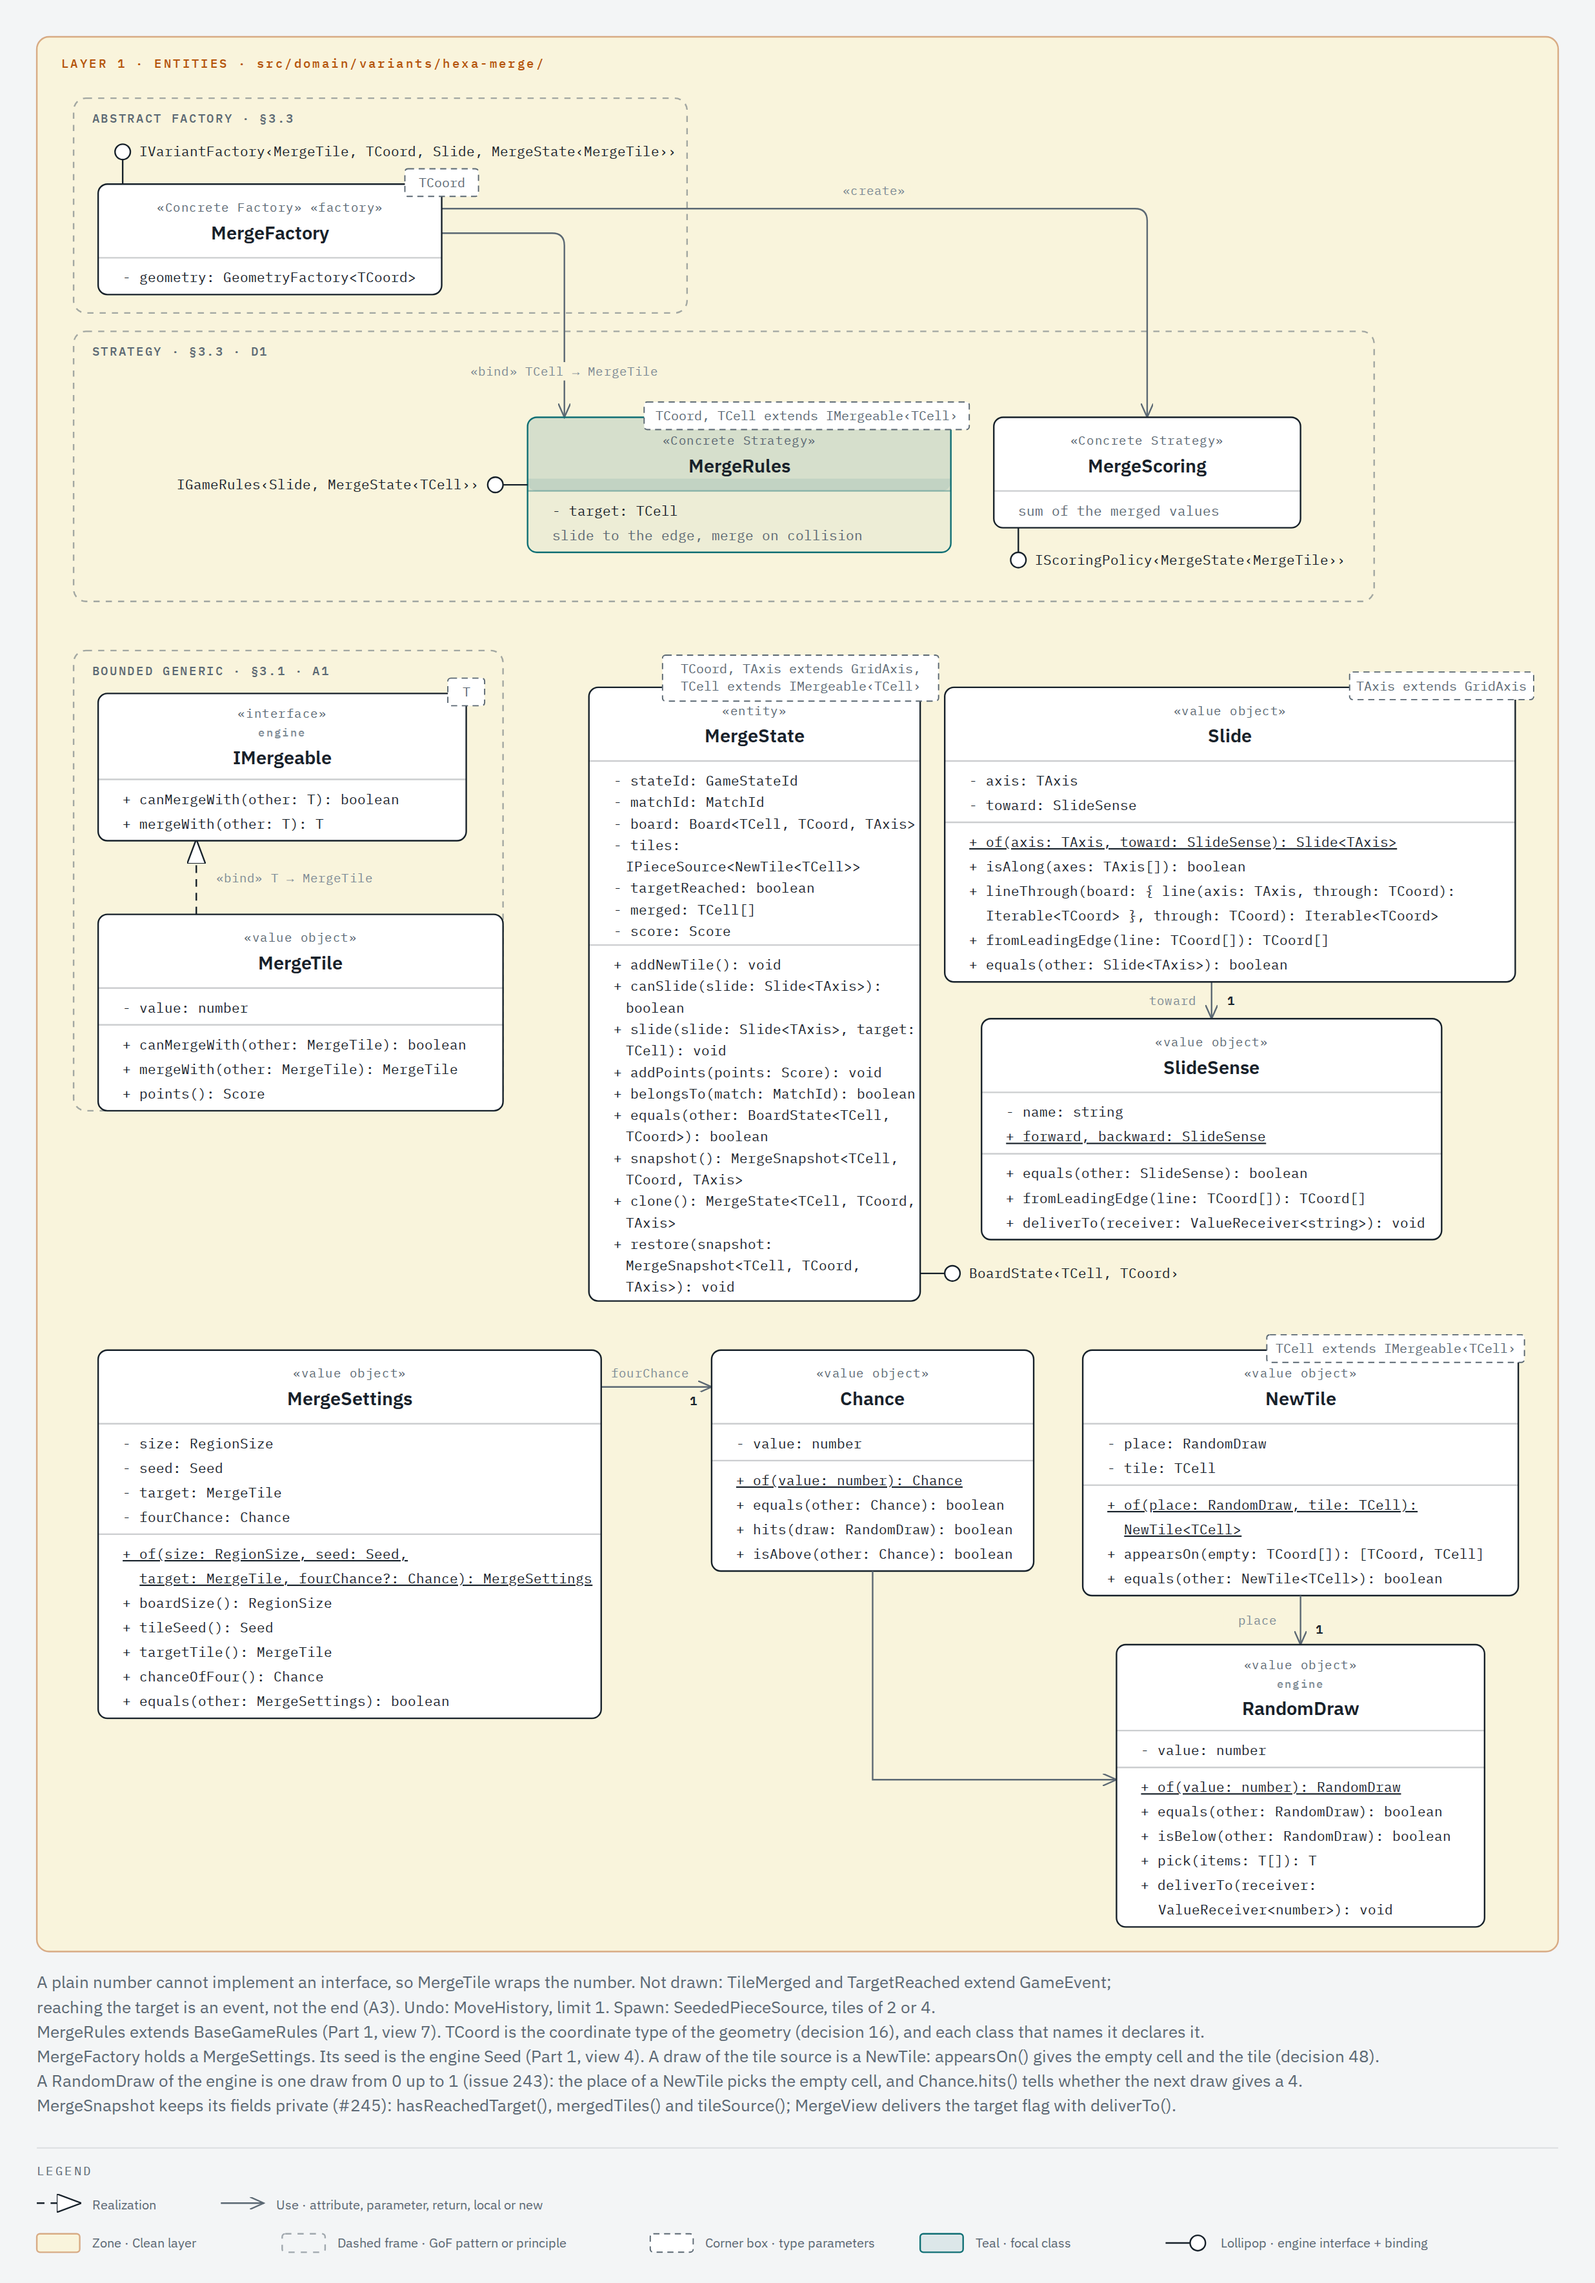
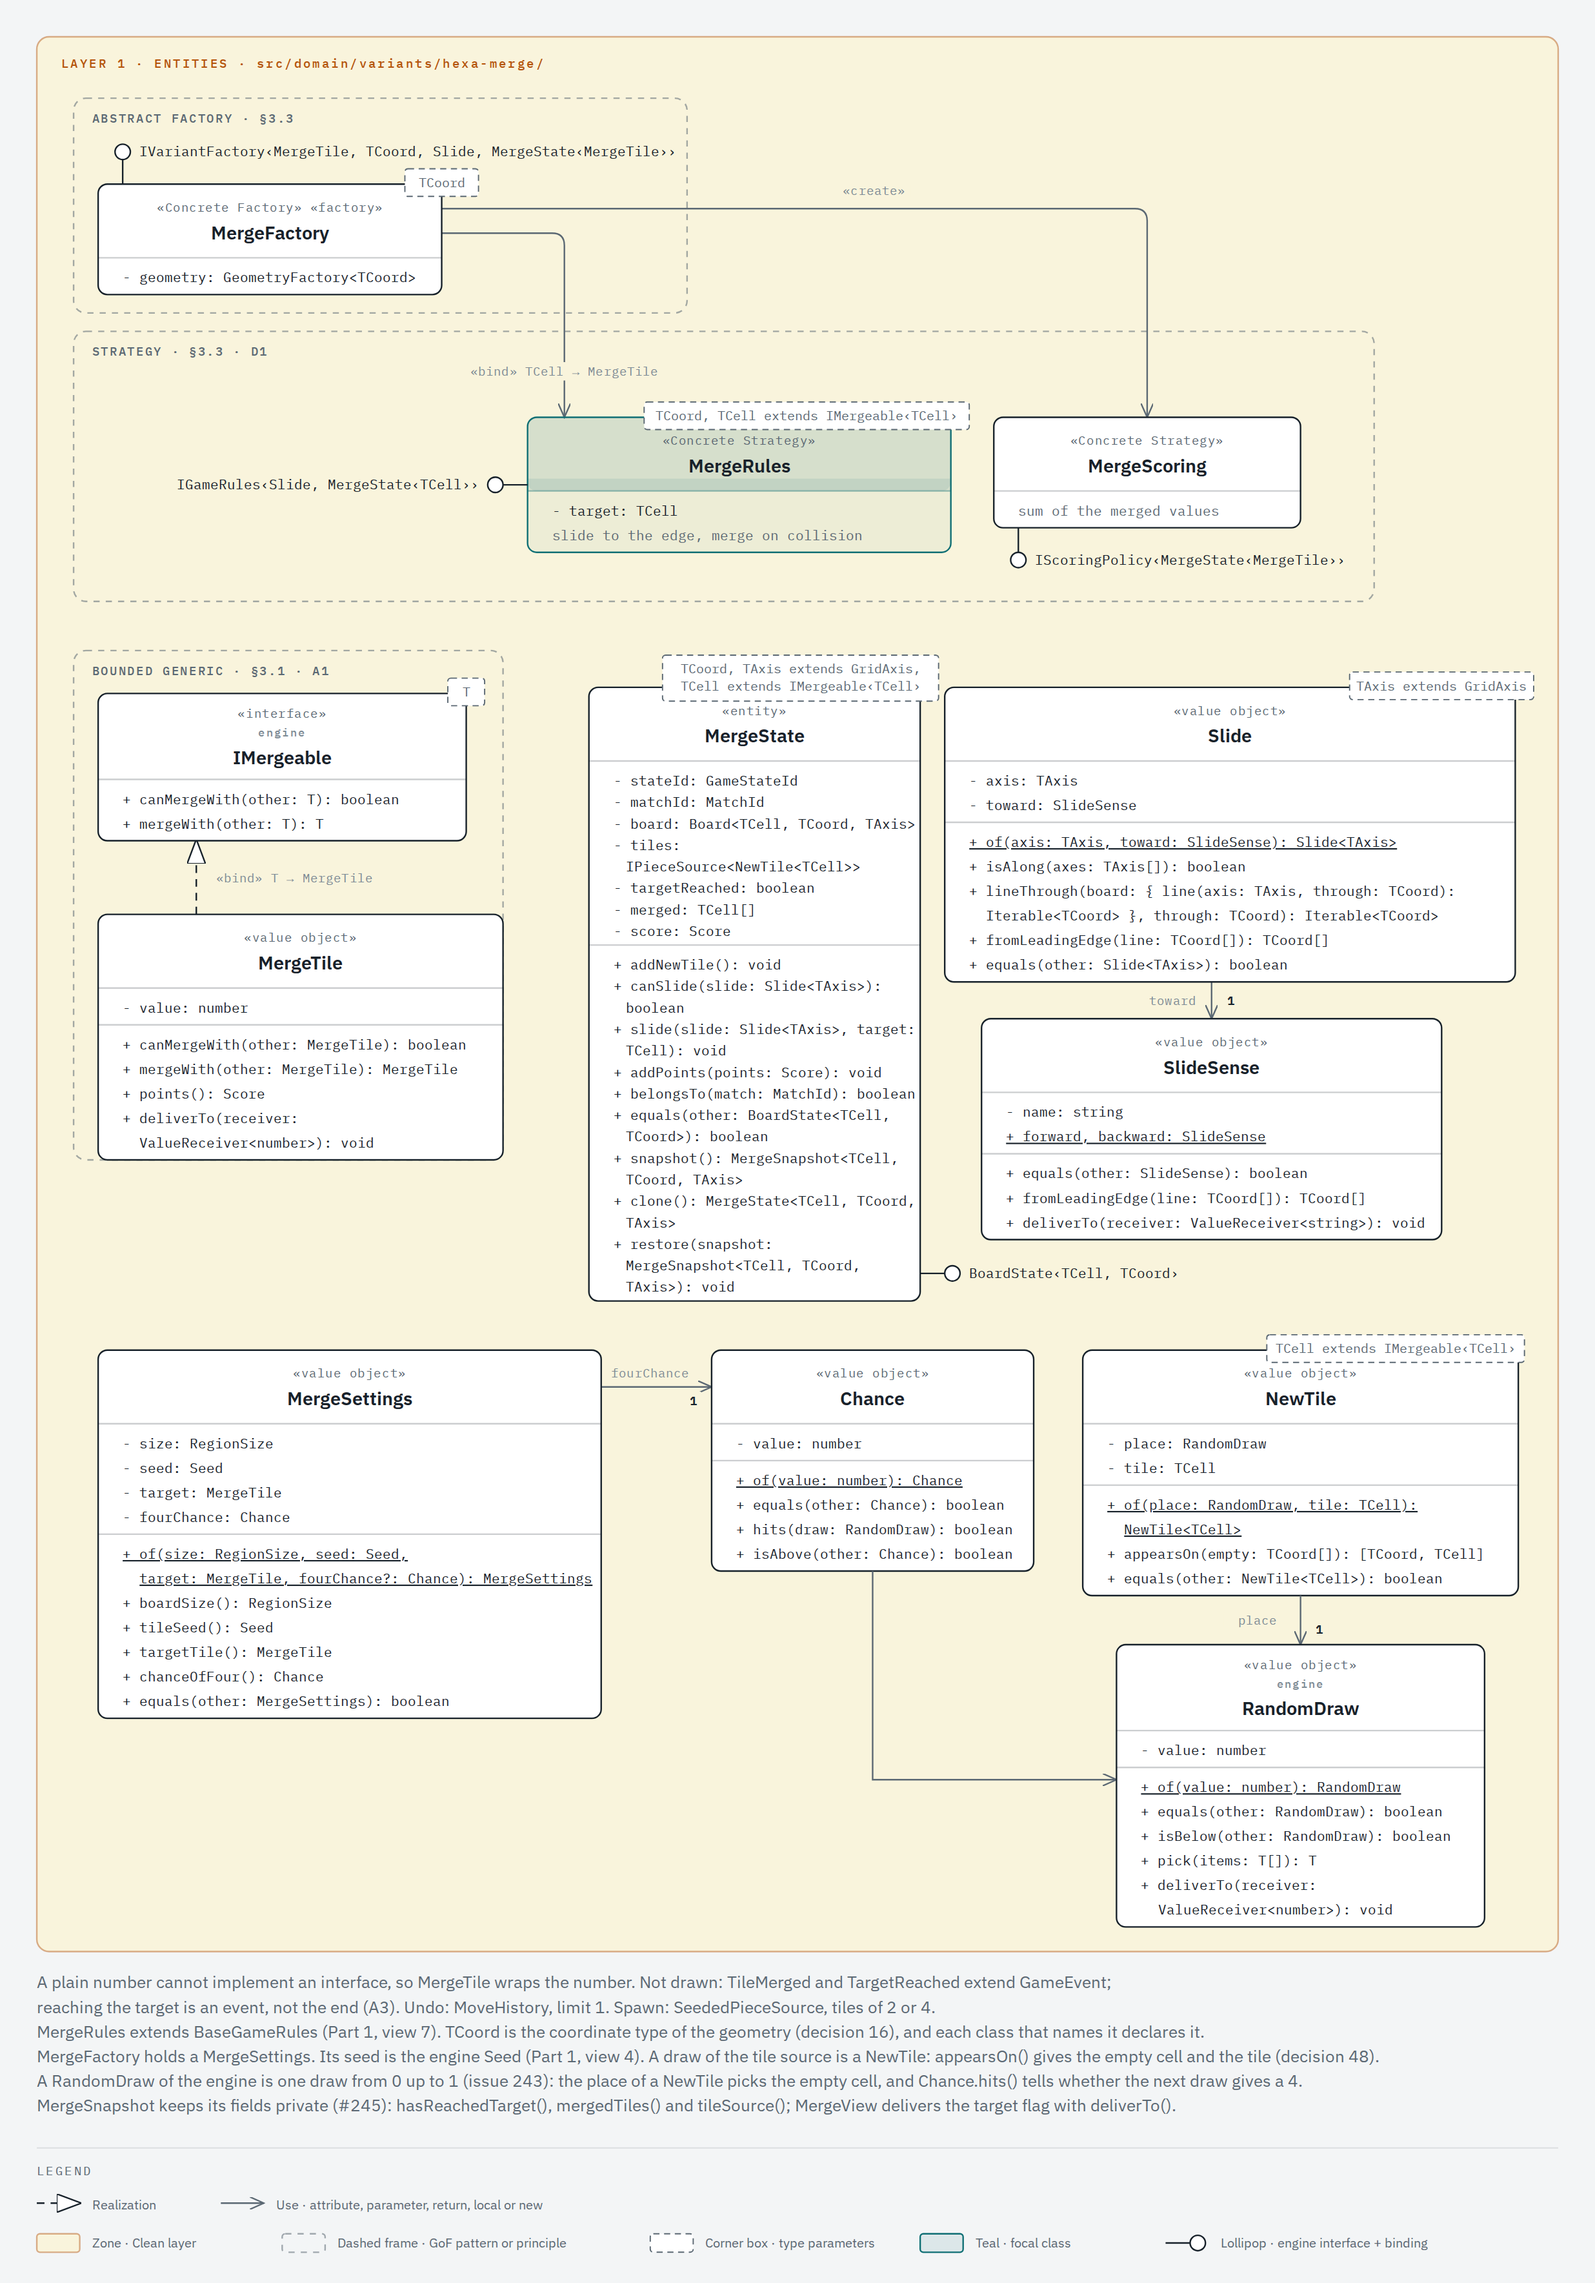
feat(merge): deliver the tile number and map the Merge screen data
MergeTile.deliverTo() gives the number of the tile to a receiver.

MergeStateMapper turns the cells and the payload of Merge into the data of the screen.

Refs #177

Changed region(s): [[0.0623, 0.4665, 0.3115, 0.5287]]

diff --git a/test/adapters/merge-state-mapper.test.ts b/test/adapters/merge-state-mapper.test.ts
@@ -1,0 +1,54 @@
+/** @jest-environment node */
+import { GamePresenter } from '../../src/adapters/game-presenter';
+import { MergeStateMapper } from '../../src/adapters/merge-state-mapper';
+import { textCatalog } from '../../src/adapters/texts/text-catalog';
+import { MergeView } from '../../src/domain/variants/hexa-merge/merge-state';
+import { MergeTile } from '../../src/domain/variants/hexa-merge/merge-tile';
+import { gameUseCases } from '../support/application/game-use-cases';
+import { mergeFactory } from '../support/variants/hexa-merge/merge-game';
+
+// Issue #177: `MergeStateMapper` turns the plain response of Hexa Merge into the data of its
+// screen. It maps each tile to its number, each free space to no number, and the payload
+// to the target flag. The tile and the view deliver their data, so the mapper repeats no rule.
+describe('MergeStateMapper', () => {
+  it('should_give_the_number_of_the_tile_when_a_tile_occupies_the_space', () => {
+    const mapper = new MergeStateMapper();
+
+    expect(mapper.toView(MergeTile.of(2))).toEqual({ value: 2 });
+    expect(mapper.toView(MergeTile.of(2).mergeWith(MergeTile.of(2)))).toEqual({ value: 4 });
+    expect(mapper.toView(MergeTile.of(2048))).toEqual({ value: 2048 });
+  });
+
+  it('should_give_no_number_when_the_space_is_free', () => {
+    expect(new MergeStateMapper().freeView()).toEqual({});
+  });
+
+  it('should_give_the_target_flag_of_the_payload_when_the_target_tile_exists_or_not', () => {
+    const mapper = new MergeStateMapper();
+
+    expect(mapper.toPayload(new MergeView(true))).toEqual({ targetReached: true });
+    expect(mapper.toPayload(new MergeView(false))).toEqual({ targetReached: false });
+  });
+
+  // The presenter builds the view model of a new game with the mapper: the two first tiles
+  // of the hexagon of radius 1 show their numbers, the other 5 spaces show none, and the
+  // target tile does not exist yet.
+  it('should_show_the_first_tiles_and_no_target_when_the_presenter_starts_a_merge_game', async () => {
+    const { startGame, applyMove } = gameUseCases(mergeFactory());
+    const presenter = new GamePresenter(
+      startGame,
+      applyMove,
+      new MergeStateMapper(),
+      textCatalog.es,
+    );
+
+    await presenter.onStart();
+
+    const views = presenter.viewModel().cells.map(([, view]) => view);
+    const numbers = views.flatMap((view) => (view.value === undefined ? [] : [view.value]));
+    expect(views).toHaveLength(7);
+    expect(numbers).toHaveLength(2);
+    expect(numbers.every((value) => value === 2 || value === 4)).toBe(true);
+    expect(presenter.viewModel().payload).toEqual({ targetReached: false });
+  });
+});

diff --git a/src/adapters/merge-state-mapper.ts b/src/adapters/merge-state-mapper.ts
@@ -1,0 +1,53 @@
+import type { MergeView } from '../domain/variants/hexa-merge/merge-state';
+import type { MergeTile } from '../domain/variants/hexa-merge/merge-tile';
+import type { StateMapper } from './state-mapper';
+
+// The cell view of the Merge screen: the number of the tile on the space.
+// A free space has no number.
+export interface MergeCellView {
+  readonly value?: number;
+}
+
+// The payload view of the Merge screen: whether a merge of the game has made the target tile.
+// The flag stays true after the first time (A3).
+export interface MergePayloadView {
+  readonly targetReached: boolean;
+}
+
+const FREE: MergeCellView = Object.freeze({});
+
+// The state mapper of Hexa Merge (classes.md decision 14, issue #177). The game registry pairs it
+// with `MergeCellRenderer`. It repeats no rule: the tile delivers its number, and the view
+// of the payload delivers the target flag that the state computed. It is an adapter of the edge,
+// so it receives each value through `deliverTo()` (rule R-no-delivery-call).
+export class MergeStateMapper implements StateMapper<
+  MergeTile,
+  MergeView,
+  MergeCellView,
+  MergePayloadView
+> {
+  toView(cell: MergeTile): MergeCellView {
+    let value: number | undefined;
+    cell.deliverTo({
+      receive: (delivered) => {
+        value = delivered;
+      },
+    });
+    if (value === undefined) throw new Error('The tile delivered no value.');
+    return { value };
+  }
+
+  freeView(): MergeCellView {
+    return FREE;
+  }
+
+  toPayload(payload: MergeView): MergePayloadView {
+    let targetReached = false;
+    payload.deliverTo({
+      receive: (reached) => {
+        targetReached = reached;
+      },
+    });
+    return { targetReached };
+  }
+}

diff --git a/test/domain/variants/hexa-merge/merge-rules.test.ts b/test/domain/variants/hexa-merge/merge-rules.test.ts
@@ -32,6 +32,7 @@ import { MATCH_ID } from '../../../support/engine/match-id';
 import { BOARD_ID, STATE_ID } from '../../../support/engine/entity-ids';
 import { mergeTileSource } from '../../../../src/domain/variants/hexa-merge/merge-tile-source';
 import { firstValidMove } from '../../../support/engine/variant-game';
+import { deliveries } from '../../../support/engine/value-receiver';
 import type { IScoringPolicy } from '../../../../src/domain/engine/scoring-policy';
 
 // The rules suite of Hexa Merge (statement §1.4, APP-NFR-12).
@@ -70,6 +71,15 @@ describe('MergeTile', () => {
     expect(() => MergeTile.of(2).mergeWith(MergeTile.of(4))).toThrow(
       new RangeError('A tile of 2 cannot merge with a tile of 4.'),
     );
+  });
+
+  // Issue #177: the state mapper of the Merge screen draws the number of each tile.
+  // The value stays private, so the tile delivers it to a receiver of the edge.
+  it('should_deliver_its_value_to_the_receiver_when_an_adapter_asks_for_the_number', () => {
+    const tile = MergeTile.of(2).mergeWith(MergeTile.of(2));
+
+    expect(deliveries(tile)).toEqual([4]);
+    expect(deliveries(MergeTile.of(2048))).toEqual([2048]);
   });
 });
 

diff --git a/docs/architecture/classes/views/variant-4-merge.html b/docs/architecture/classes/views/variant-4-merge.html
@@ -211,7 +211,7 @@
           x="48"
           y="424"
           width="280"
-          height="300"
+          height="332"
           rx="8"
           fill="none"
           stroke="rgba(91,104,115,0.55)"
@@ -740,7 +740,7 @@
           x="64"
           y="596"
           width="264"
-          height="128"
+          height="160"
           rx="6"
           fill="#ffffff"
           stroke="#17212a"
@@ -781,6 +781,12 @@
         </text>
         <text x="80" y="716" fill="#17212a" font-size="9" font-family="'IBM Plex Mono', monospace">
           + points(): Score
+        </text>
+        <text x="80" y="732" fill="#17212a" font-size="9" font-family="'IBM Plex Mono', monospace">
+          + deliverTo(receiver:
+        </text>
+        <text x="91" y="748" fill="#17212a" font-size="9" font-family="'IBM Plex Mono', monospace">
+          ValueReceiver&lt;number&gt;): void
         </text>
 
         <!-- UML template boxes: type parameters on the top-right corner -->

diff --git a/src/domain/variants/hexa-merge/merge-tile.ts b/src/domain/variants/hexa-merge/merge-tile.ts
@@ -1,4 +1,5 @@
 import { Score } from '../../engine/score';
+import type { ValueReceiver } from '../../engine/value-receiver';
 import type { IMergeable } from './mergeable';
 
 // The cell of Hexa Merge: a value object that wraps an integer (assumption A1).
@@ -36,5 +37,12 @@ export class MergeTile implements IMergeable<MergeTile> {
   // They are a `Score` (classes.md decision 41).
   points(): Score {
     return Score.of(this.value);
+  }
+
+  // Gives the value of the tile to `receiver`. It returns nothing.
+  // The state mapper of the Merge screen draws the number from it (issue #177).
+  // No code of the domain or of the use cases calls it (rule R-no-delivery-call).
+  deliverTo(receiver: ValueReceiver<number>): void {
+    receiver.receive(this.value);
   }
 }

diff --git a/src/adapters/README.md b/src/adapters/README.md
@@ -4,7 +4,7 @@ Today it holds `InMemoryGameRepository`, the adapter of the `GameRepository` por
 
 `HomePresenter` is the MVP presenter of the home screen and of the game selector map (#169). It takes the ids of the registered games and the texts of one language, and it imports no React. It finds the texts of each game under `game.<id>.name` and `game.<id>.place` in the catalog.
 
-`GamePresenter` is the MVP presenter of the game screen (#170). It calls `StartGame` and `ApplyMove` through the `UseCase` port, reads only the plain `MoveResult`, and builds `GameViewModel` with the `StateMapper` of the game: one pair of a coordinate and a cell view for each space of the board, free or occupied. It imports no React and names no variant. `SpaceStateMapper` is the default mapper, which the game registry gives every game until its variant registers its own. The texts of the game screen live under `play.<part>` in the catalog.
+`GamePresenter` is the MVP presenter of the game screen (#170). It calls `StartGame` and `ApplyMove` through the `UseCase` port, reads only the plain `MoveResult`, and builds `GameViewModel` with the `StateMapper` of the game: one pair of a coordinate and a cell view for each space of the board, free or occupied. It imports no React and names no variant. `SpaceStateMapper` is the default mapper, which the game registry gives every game until its variant registers its own. `MergeStateMapper` is the mapper of Hexa Merge (#177): the number of each tile and the target flag of the payload. The texts of the game screen live under `play.<part>` in the catalog.
 
 `key-value-store.ts` holds `KeyValueStore`, the driver interface of the local storage (issue #155). It keeps one text value for each text key. The local repositories of this layer will use it, and `DeviceKeyValueStore` in `src/infrastructure/` implements it, so no adapter imports a storage package. `InMemoryKeyValueStore` in `test/support/adapters/` is its test fake, for the integration tests of APP-NFR-15.
 

diff --git a/src/domain/variants/hexa-merge/README.md b/src/domain/variants/hexa-merge/README.md
@@ -1,1 +1,1 @@
-Hexa Merge (statement §1.4): `MergeTile`, `Slide`, `MergeState`, `MergeRules`, `mergeTileSource()`, the seeded source of the new tiles (`NewTile`), whose place is a `RandomDraw` of the engine (#243), `Chance`, the chance that a new tile is a 4, `MergeSettings`, and `MergeFactory`, which creates the whole family with `START_TILES` (2) first tiles. It may import `src/domain/engine/`, never another variant folder, and never React, React Native or Expo.
+Hexa Merge (statement §1.4): `MergeTile`, which delivers its number to the screen with `deliverTo()` (#177), `Slide`, `MergeState`, `MergeRules`, `mergeTileSource()`, the seeded source of the new tiles (`NewTile`), whose place is a `RandomDraw` of the engine (#243), `Chance`, the chance that a new tile is a 4, `MergeSettings`, and `MergeFactory`, which creates the whole family with `START_TILES` (2) first tiles. It may import `src/domain/engine/`, never another variant folder, and never React, React Native or Expo.
